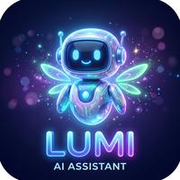
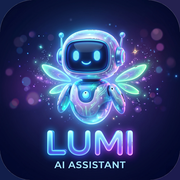
앱 ver.1.0.1: 아이콘 흰 모서리 제거
설치 아이콘(icon-192·512)의 둥근 모서리를 투명 처리해 작업표시줄에서
흰색이 보이지 않게 함. apple-touch는 남색 full-bleed(iOS가 둥글게),
maskable은 안전영역 패딩으로 재생성. 고화질 원본에서 다시 생성.
service worker 캐시 v2로 올려 예전 아이콘을 비움.

Claude-Session: https://claude.ai/code/session_01BPDKR7nnizn7TCCsxVeAEQ

diff --git a/index.html b/index.html
@@ -13,7 +13,7 @@
 <link rel="apple-touch-icon" href="icons/apple-touch-icon.png" />
 <link rel="icon" id="favicon" type="image/jpeg" href="data:," />
 <!--
-  LUMI 앱 (스마트폰·PC 웹 앱, GitHub Pages) · 앱 ver.1.0.0 — 바탕화면 실행기(YH-AI-assisstant/install/LUMI.html) ver.2를 바탕으로 함
+  LUMI 앱 (스마트폰·PC 웹 앱, GitHub Pages) · 앱 ver.1.0.1 — 바탕화면 실행기(YH-AI-assisstant/install/LUMI.html) ver.2를 바탕으로 함
   - 홈 화면에 추가하면 앱처럼 열린다(manifest.webmanifest, sw.js). 이 페이지에는 토큰·연구 기록이 없다(공개 저장소).
   - 열 때마다 GitHub 저장소의 remote 폴더에서 가장 높은 버전의 LUMI agent(AI assisstant LUMI ver.x.y.z.html)를 받아 띄운다.
     → LUMI agent가 새 버전으로 바뀌어도 다시 설치할 필요가 없다.

diff --git a/sw.js b/sw.js
@@ -1,6 +1,6 @@
 // LUMI 앱 서비스 워커: 앱 첫 화면(이 저장소의 파일)만 기억해 두었다가 인터넷이 안 될 때 보여 준다.
 // GitHub API(LUMI agent·연구 기록)는 절대 저장하지 않는다 — 항상 네트워크로 받는다.
-const CACHE = "lumi-app-v1";
+const CACHE = "lumi-app-v2";   // v2: 아이콘 흰 모서리 제거(둥근 아이콘 투명 처리)
 const SHELL = ["./", "./index.html", "./manifest.webmanifest", "./icons/icon-192.png", "./icons/apple-touch-icon.png"];
 self.addEventListener("install", e => { e.waitUntil(caches.open(CACHE).then(c => c.addAll(SHELL)).then(() => self.skipWaiting())); });
 self.addEventListener("activate", e => {
